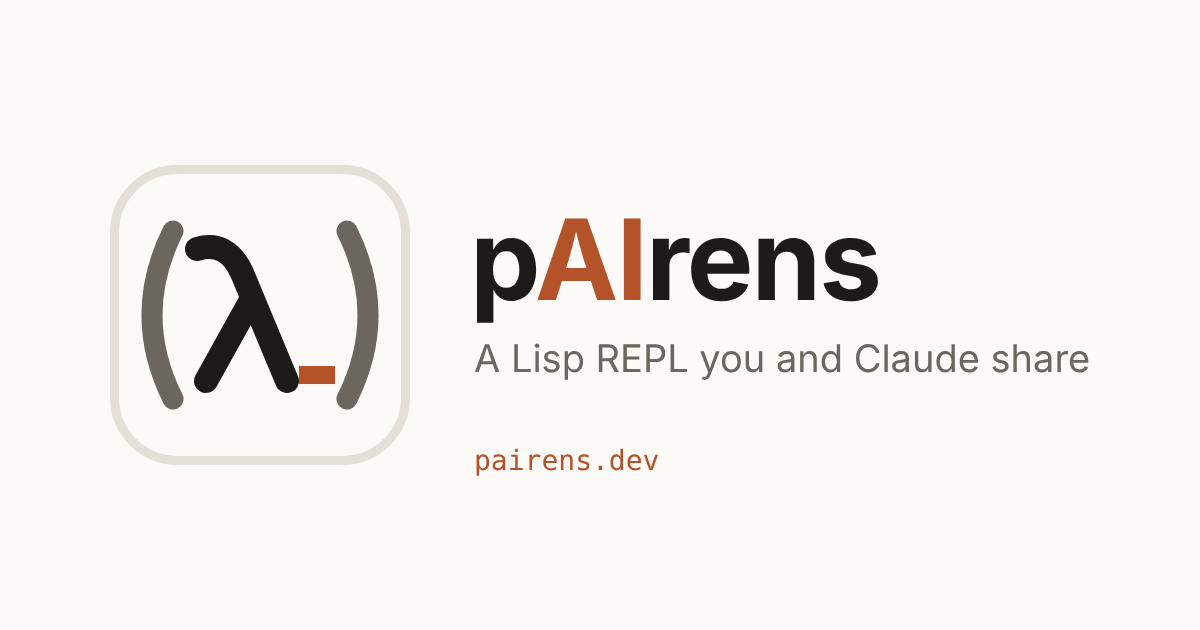
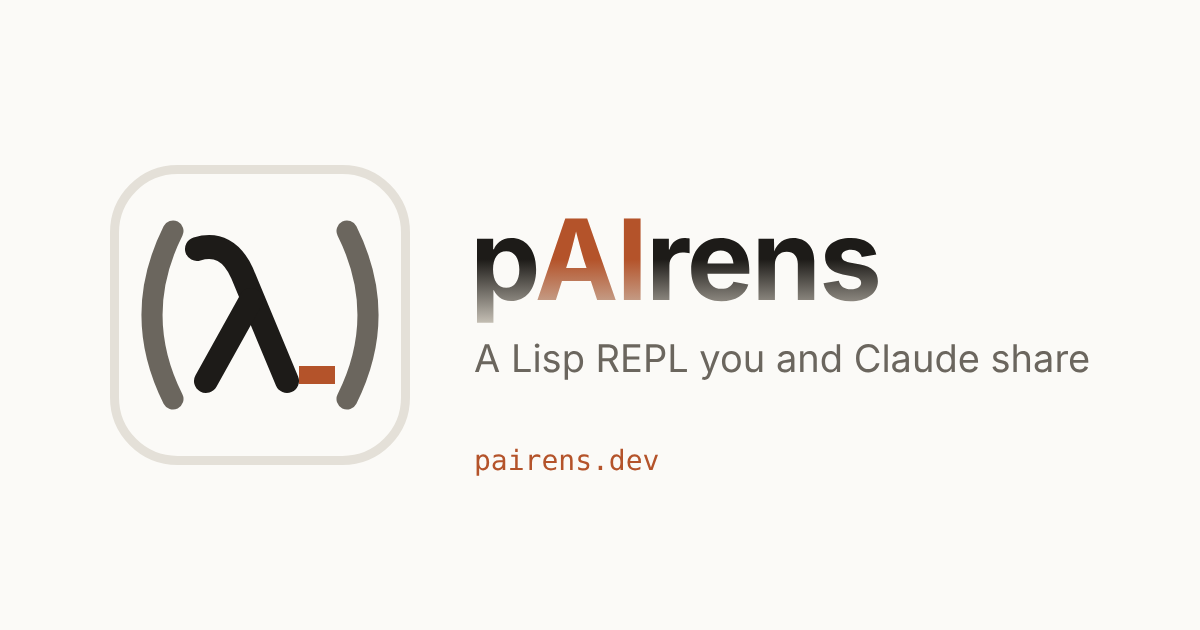
Match the link preview image to the gradient heading
Regenerates docs/og.png with the light-mode logo fade and adds ?v=2 to
the og:image URL so apps that cached the old preview fetch the new one.

Claude-Session: https://claude.ai/code/session_01MknqcsphbWZiwHZYvR5gve

Changed region(s): [[0.37, 0.4222, 0.74, 0.5127]]

diff --git a/docs/index.html b/docs/index.html
@@ -12,7 +12,7 @@
 <meta property="og:url" content="https://pairens.dev/">
 <meta property="og:title" content="pAIrens: a Lisp REPL you and Claude share">
 <meta property="og:description" content="pAIrens is a Claude Code mod: a Lisp REPL beside the chat, connected to your live image, that you and Claude both use.">
-<meta property="og:image" content="https://pairens.dev/og.png">
+<meta property="og:image" content="https://pairens.dev/og.png?v=2">
 <meta property="og:image:width" content="1200">
 <meta property="og:image:height" content="630">
 <meta property="og:image:alt" content="The pAIrens (λ_) mark beside the name pAIrens and the line: A Lisp REPL you and Claude share.">
